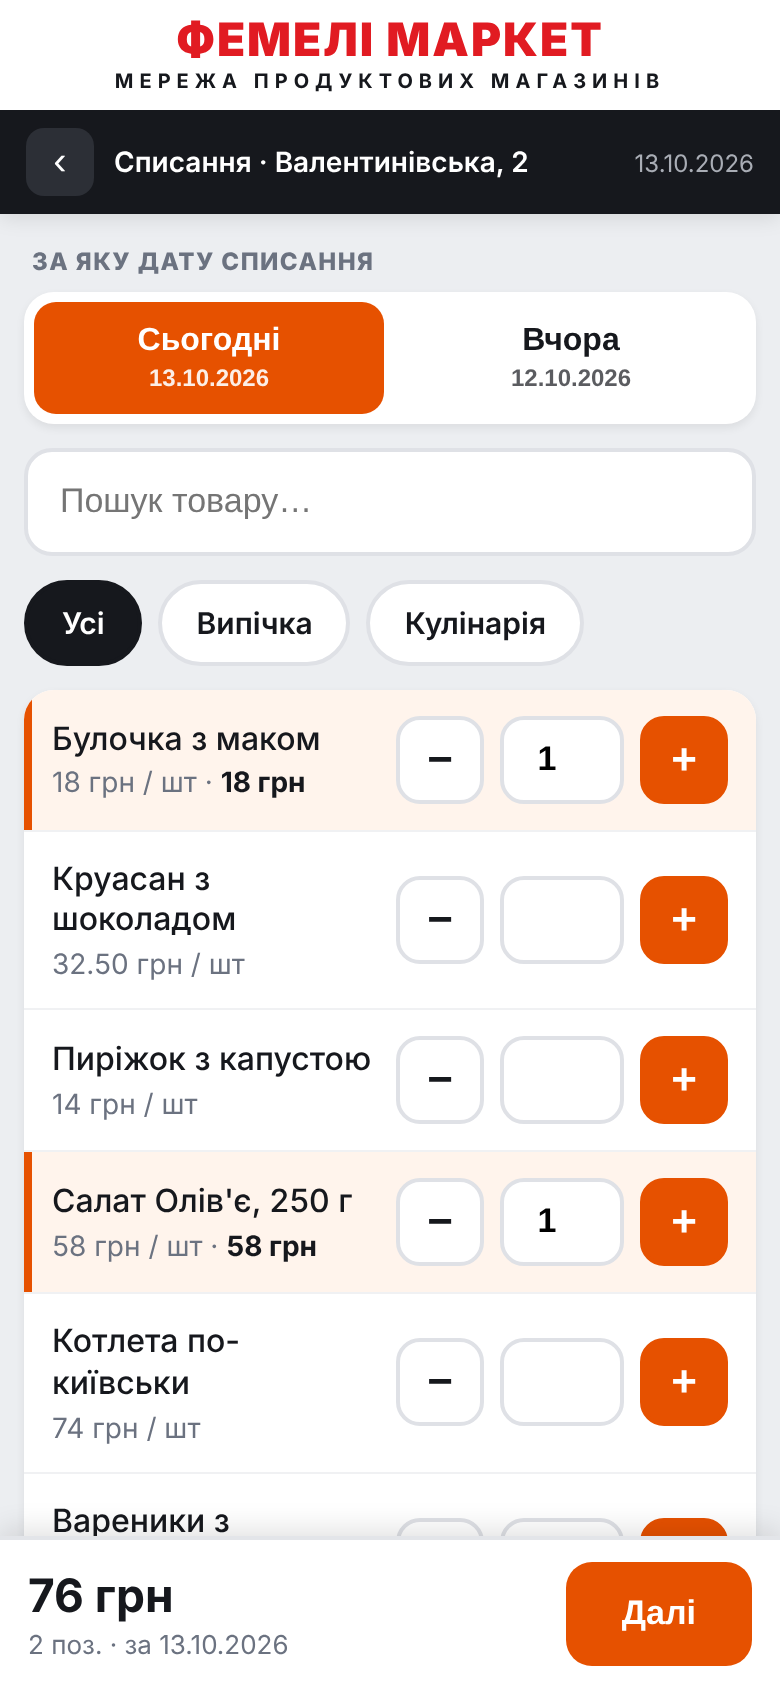
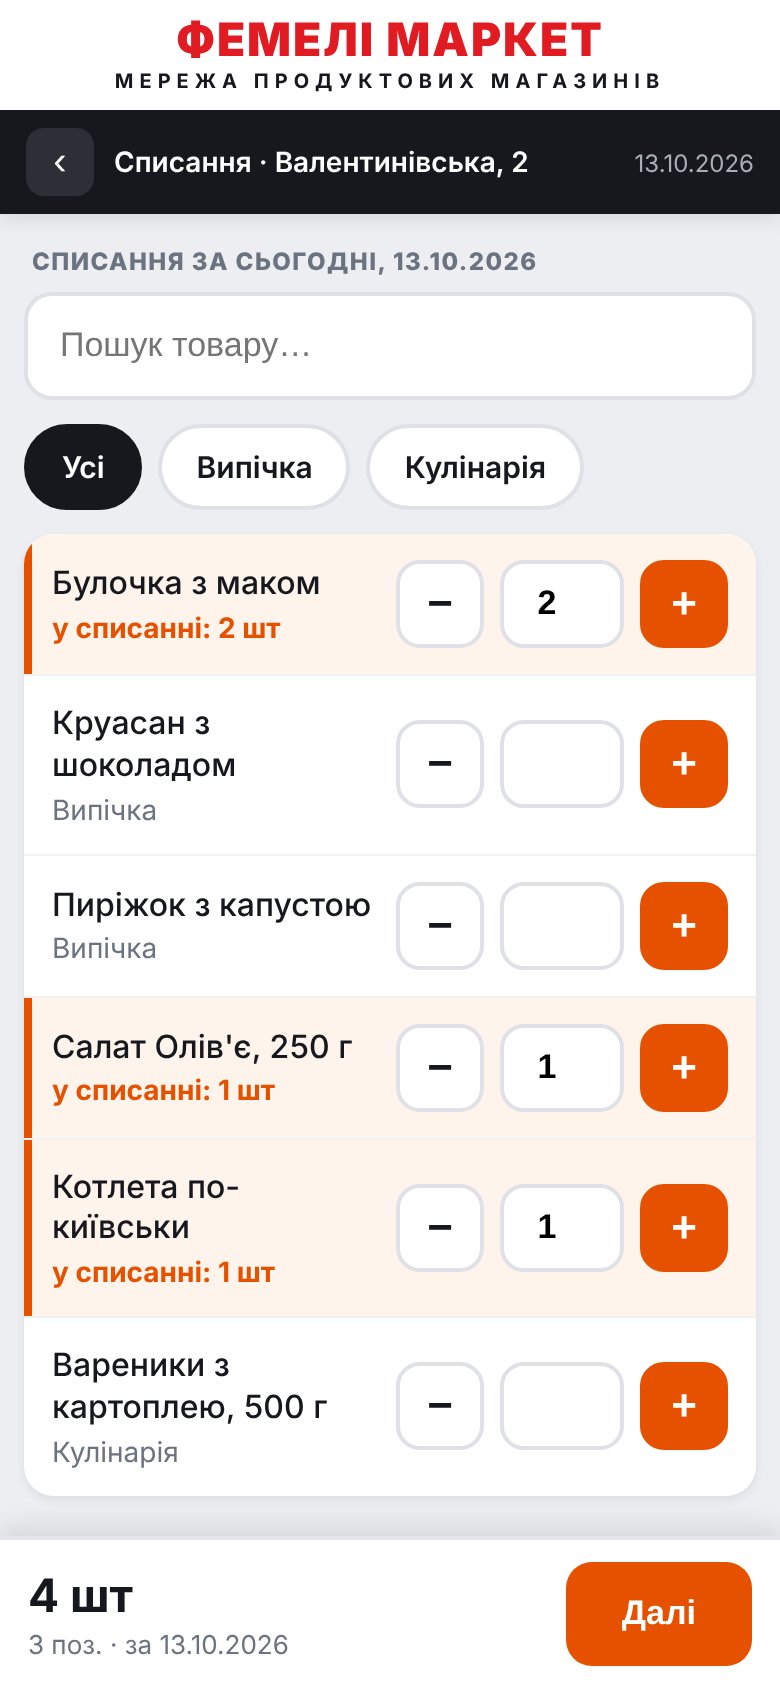
Списання: прізвище продавця (обов'язкове) і колонка «Сумма +15%»; виправлено індекси колонок
Claude-Session: https://claude.ai/code/session_01NWDP7yspsZbAmWNYTwgpXh

diff --git a/tools/preview/seller.html b/tools/preview/seller.html
@@ -615,6 +615,12 @@ start();
 .wocard .row.has{background:#FFF4EC;box-shadow:inset 4px 0 0 #E65100}
 .btn.wo{background:#E65100}
 .btn.wo:disabled{background:#c9ccd2}
+.woseller{background:#fff;border-radius:14px;padding:12px 14px;margin:14px 0 4px;box-shadow:0 2px 6px rgba(0,0,0,.06)}
+.woseller label{display:block;font-size:13px;font-weight:700;color:#6b7280;margin-bottom:6px}
+.woseller input{width:100%;box-sizing:border-box;font-size:17px;padding:11px 12px;border:2px solid #e3e5e8;
+  border-radius:11px;outline:none}
+.woseller input:focus{border-color:#E65100}
+.woseller.bad input{border-color:#b3261e}
 
 /* --- перевірка --- */
 .revh{background:#fff;border-radius:15px;padding:4px 14px;margin-bottom:12px;box-shadow:0 2px 5px rgba(0,0,0,.07)}
@@ -788,6 +794,9 @@ function woReview(){
     return '<div class="ritem"><div class="n">' + esc(p.name) + '<span>' + esc(p.category) +
       '</span></div><div class="s">' + q + ' шт</div></div>';
   }).join('') + '</div>';
+  h += '<div class="woseller" id="wosel"><label for="woseller">Прізвище продавця, який подає списання</label>' +
+       '<input id="woseller" autocomplete="family-name" maxlength="40" placeholder="Наприклад: Петренко" value="' +
+       esc(woSellerSaved()) + '"></div>';
   h += '<div style="text-align:center;padding-top:14px">' +
        '<button class="chip" onclick="woDraw()">← Змінити</button></div>';
   el('wrap').innerHTML = h;
@@ -796,14 +805,26 @@ function woReview(){
     ' шт</b>' + items.length + ' поз. до списання</div><button class="btn wo" id="wosend" onclick="woSend()">Відправити</button></div></div>';
 }
 
+/* Прізвище запам'ятовується на телефоні - наступного разу підставиться саме. */
+function woSellerSaved(){ try { return localStorage.getItem('wo_seller') || ''; } catch(e){ return ''; } }
 function woSend(){
+  var inp = el('woseller');
+  var seller = String(inp ? inp.value : '').replace(/\s+/g, ' ').trim();
+  if (seller.length < 2 || !/[A-Za-zА-Яа-яІіЇїЄєҐґ]{2}/.test(seller)){
+    el('wosel').className = 'woseller bad';
+    alert('Вкажіть прізвище продавця, який подає списання');
+    if (inp) inp.focus();
+    return;
+  }
+  try { localStorage.setItem('wo_seller', seller); } catch(e){}
+  W.seller = seller;
   var items = woChosen().map(function(p){ return { id: p.id, qty: W.cart[p.id] }; });
   var b = el('wosend'); if (b){ b.disabled = true; b.textContent = 'Відправка…'; }
   woTry(items, 0);
 }
 /* Той самий docId при повторі - дубль на сервері не створиться. */
 function woTry(items, attempt){
-  call('woSubmit', { storeId: S.store.id, date: W.date, items: items, docId: W.docId })
+  call('woSubmit', { storeId: S.store.id, date: W.date, items: items, docId: W.docId, seller: W.seller })
     .then(woDone)
     .catch(function(e){
       var msg = String((e && e.message) || e), b = el('wosend');
@@ -824,6 +845,7 @@ function woDone(r){
   el('wrap').innerHTML = '<div class="ok"><div class="big" style="background:#E65100">&#10003;</div>' +
     '<h2>Списання прийнято</h2>' +
     '<p><b>' + esc(r.store) + '</b></p>' +
+    (r.seller ? '<p>подав(ла): ' + esc(r.seller) + '</p>' : '') +
     '<p>за ' + esc(r.woDate) + ' · ' + r.positions + ' поз. на <b>' + money(r.total) + ' грн</b></p>' +
     '<p style="color:#8b9098">подано о ' + esc(r.time) + '</p>' +
     (r.duplicate ? '<p style="color:#b3261e">Повторна відправка — дублі не створені</p>' : '') +
@@ -855,7 +877,8 @@ function woMy(){
     if (!d.docs.length) h += '<div class="msg">Списань поки немає</div>';
     d.docs.forEach(function(doc, i){
       h += '<div class="doc"><div class="dh"><div class="w"><b>Списання за ' + esc(doc.date) + '</b>' +
-        '<span>подано ' + esc(doc.at) + ' · ' + doc.items.length + ' поз.</span></div>' +
+        '<span>подано ' + esc(doc.at) + ' · ' + doc.items.length + ' поз.' +
+        (doc.seller ? ' · ' + esc(doc.seller) : '') + '</span></div>' +
         '<div class="s">' + money(doc.total) + ' грн</div></div>' +
         doc.items.map(function(it){
           return '<div class="it"><div class="n">' + esc(it.name) + '</div><div class="q">' + it.qty +

diff --git a/app/ui/WriteOff.html b/app/ui/WriteOff.html
@@ -29,6 +29,12 @@
 .wocard .row.has{background:#FFF4EC;box-shadow:inset 4px 0 0 #E65100}
 .btn.wo{background:#E65100}
 .btn.wo:disabled{background:#c9ccd2}
+.woseller{background:#fff;border-radius:14px;padding:12px 14px;margin:14px 0 4px;box-shadow:0 2px 6px rgba(0,0,0,.06)}
+.woseller label{display:block;font-size:13px;font-weight:700;color:#6b7280;margin-bottom:6px}
+.woseller input{width:100%;box-sizing:border-box;font-size:17px;padding:11px 12px;border:2px solid #e3e5e8;
+  border-radius:11px;outline:none}
+.woseller input:focus{border-color:#E65100}
+.woseller.bad input{border-color:#b3261e}
 
 /* --- перевірка --- */
 .revh{background:#fff;border-radius:15px;padding:4px 14px;margin-bottom:12px;box-shadow:0 2px 5px rgba(0,0,0,.07)}
@@ -202,6 +208,9 @@ function woReview(){
     return '<div class="ritem"><div class="n">' + esc(p.name) + '<span>' + esc(p.category) +
       '</span></div><div class="s">' + q + ' шт</div></div>';
   }).join('') + '</div>';
+  h += '<div class="woseller" id="wosel"><label for="woseller">Прізвище продавця, який подає списання</label>' +
+       '<input id="woseller" autocomplete="family-name" maxlength="40" placeholder="Наприклад: Петренко" value="' +
+       esc(woSellerSaved()) + '"></div>';
   h += '<div style="text-align:center;padding-top:14px">' +
        '<button class="chip" onclick="woDraw()">← Змінити</button></div>';
   el('wrap').innerHTML = h;
@@ -210,14 +219,26 @@ function woReview(){
     ' шт</b>' + items.length + ' поз. до списання</div><button class="btn wo" id="wosend" onclick="woSend()">Відправити</button></div></div>';
 }
 
+/* Прізвище запам'ятовується на телефоні - наступного разу підставиться саме. */
+function woSellerSaved(){ try { return localStorage.getItem('wo_seller') || ''; } catch(e){ return ''; } }
 function woSend(){
+  var inp = el('woseller');
+  var seller = String(inp ? inp.value : '').replace(/\s+/g, ' ').trim();
+  if (seller.length < 2 || !/[A-Za-zА-Яа-яІіЇїЄєҐґ]{2}/.test(seller)){
+    el('wosel').className = 'woseller bad';
+    alert('Вкажіть прізвище продавця, який подає списання');
+    if (inp) inp.focus();
+    return;
+  }
+  try { localStorage.setItem('wo_seller', seller); } catch(e){}
+  W.seller = seller;
   var items = woChosen().map(function(p){ return { id: p.id, qty: W.cart[p.id] }; });
   var b = el('wosend'); if (b){ b.disabled = true; b.textContent = 'Відправка…'; }
   woTry(items, 0);
 }
 /* Той самий docId при повторі - дубль на сервері не створиться. */
 function woTry(items, attempt){
-  call('woSubmit', { storeId: S.store.id, date: W.date, items: items, docId: W.docId })
+  call('woSubmit', { storeId: S.store.id, date: W.date, items: items, docId: W.docId, seller: W.seller })
     .then(woDone)
     .catch(function(e){
       var msg = String((e && e.message) || e), b = el('wosend');
@@ -238,6 +259,7 @@ function woDone(r){
   el('wrap').innerHTML = '<div class="ok"><div class="big" style="background:#E65100">&#10003;</div>' +
     '<h2>Списання прийнято</h2>' +
     '<p><b>' + esc(r.store) + '</b></p>' +
+    (r.seller ? '<p>подав(ла): ' + esc(r.seller) + '</p>' : '') +
     '<p>за ' + esc(r.woDate) + ' · ' + r.positions + ' поз. на <b>' + money(r.total) + ' грн</b></p>' +
     '<p style="color:#8b9098">подано о ' + esc(r.time) + '</p>' +
     (r.duplicate ? '<p style="color:#b3261e">Повторна відправка — дублі не створені</p>' : '') +
@@ -269,7 +291,8 @@ function woMy(){
     if (!d.docs.length) h += '<div class="msg">Списань поки немає</div>';
     d.docs.forEach(function(doc, i){
       h += '<div class="doc"><div class="dh"><div class="w"><b>Списання за ' + esc(doc.date) + '</b>' +
-        '<span>подано ' + esc(doc.at) + ' · ' + doc.items.length + ' поз.</span></div>' +
+        '<span>подано ' + esc(doc.at) + ' · ' + doc.items.length + ' поз.' +
+        (doc.seller ? ' · ' + esc(doc.seller) : '') + '</span></div>' +
         '<div class="s">' + money(doc.total) + ' грн</div></div>' +
         doc.items.map(function(it){
           return '<div class="it"><div class="n">' + esc(it.name) + '</div><div class="q">' + it.qty +

diff --git a/app/ui/WriteOffAdminJs.html b/app/ui/WriteOffAdminJs.html
@@ -201,7 +201,8 @@ function loadWoStore(id) {
     if (!d.docs.length) h += '<div class="info">За этот период списаний нет.</div>';
     d.docs.forEach(function (doc, i) {
       h += '<div class="wodoc"><div class="h"><span class="grow"><span class="t">Списание за ' + esc(doc.date) + '</span>' +
-        '<span class="s">подано ' + esc(doc.at) + ' · ' + doc.items.length + ' поз. · ЕГРПОУ ' + esc(doc.edrpou) +
+        '<span class="s">подано ' + esc(doc.at) + (doc.seller ? ' · продавец: <b>' + esc(doc.seller) + '</b>' : '') +
+        ' · ' + doc.items.length + ' поз. · ЕГРПОУ ' + esc(doc.edrpou) +
         (doc.sheet === 'Архив' ? ' · в архиве' : '') + '</span></span>' +
         '<span class="right">' + woMoney(doc.total) + ' грн</span></div>' +
         doc.items.map(function (it) {

diff --git a/tools/preview/admin.html b/tools/preview/admin.html
@@ -370,7 +370,8 @@ function loadWoStore(id) {
     if (!d.docs.length) h += '<div class="info">За этот период списаний нет.</div>';
     d.docs.forEach(function (doc, i) {
       h += '<div class="wodoc"><div class="h"><span class="grow"><span class="t">Списание за ' + esc(doc.date) + '</span>' +
-        '<span class="s">подано ' + esc(doc.at) + ' · ' + doc.items.length + ' поз. · ЕГРПОУ ' + esc(doc.edrpou) +
+        '<span class="s">подано ' + esc(doc.at) + (doc.seller ? ' · продавец: <b>' + esc(doc.seller) + '</b>' : '') +
+        ' · ' + doc.items.length + ' поз. · ЕГРПОУ ' + esc(doc.edrpou) +
         (doc.sheet === 'Архив' ? ' · в архиве' : '') + '</span></span>' +
         '<span class="right">' + woMoney(doc.total) + ' грн</span></div>' +
         doc.items.map(function (it) {
